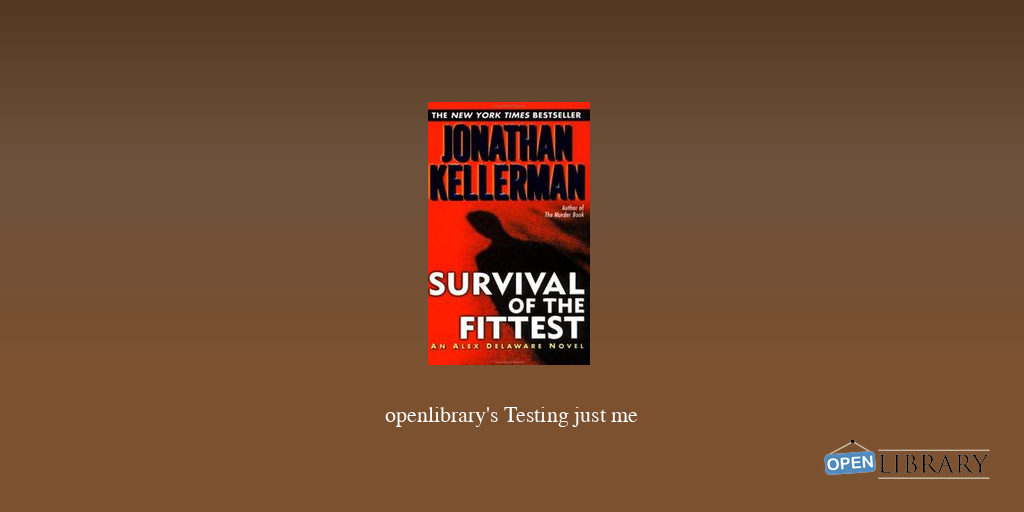
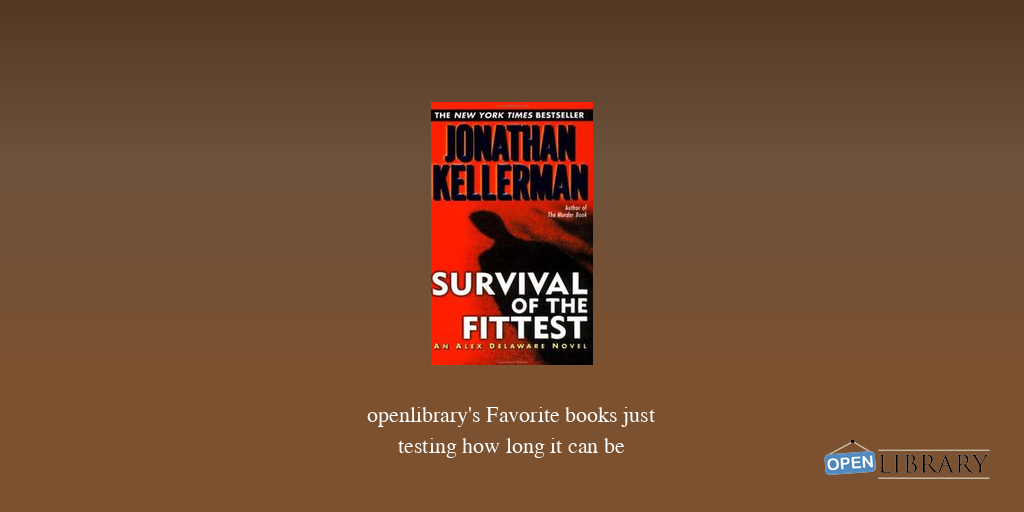
Fix book covers position

Changed region(s): [[0.4062, 0.2188, 0.5938, 0.7188], [0.3438, 0.7812, 0.625, 0.9062]]

diff --git a/openlibrary/coverstore/code.py b/openlibrary/coverstore/code.py
@@ -555,29 +555,29 @@ def overlay_covers_over_background():
 
 
     if len(image) == 5:
-        background.paste(image[0], (33, 102))
-        background.paste(image[1], (228, 102))
-        background.paste(image[2], (430, 102))
-        background.paste(image[3], (637, 102))
-        background.paste(image[4], (822, 102))
+        background.paste(image[0], (41, 102))
+        background.paste(image[1], (236, 102))
+        background.paste(image[2], (431, 102))
+        background.paste(image[3], (626, 102))
+        background.paste(image[4], (821, 102))
 
     elif len(image) == 4:
         background.paste(image[0], (72, 102))
         background.paste(image[1], (312, 102))
-        background.paste(image[2], (557, 102))
-        background.paste(image[3], (780, 102))
+        background.paste(image[2], (552, 102))
+        background.paste(image[3], (792, 102))
     
     elif len(image) == 3:
-        background.paste(image[0], (184, 102))
-        background.paste(image[1], (425, 102))
-        background.paste(image[2], (671, 102))
+        background.paste(image[0], (190, 102))
+        background.paste(image[1], (431, 102))
+        background.paste(image[2], (672, 102))
 
     elif len(image) == 2:
-        background.paste(image[0], (304, 102))
-        background.paste(image[1], (545, 102))
+        background.paste(image[0], (312, 102))
+        background.paste(image[1], (552, 102))
 
     else:
-        background.paste(image[0], (428, 102))
+        background.paste(image[0], (431, 102))
         
 
     logo = logo.resize(logo_size, Image.ANTIALIAS)
